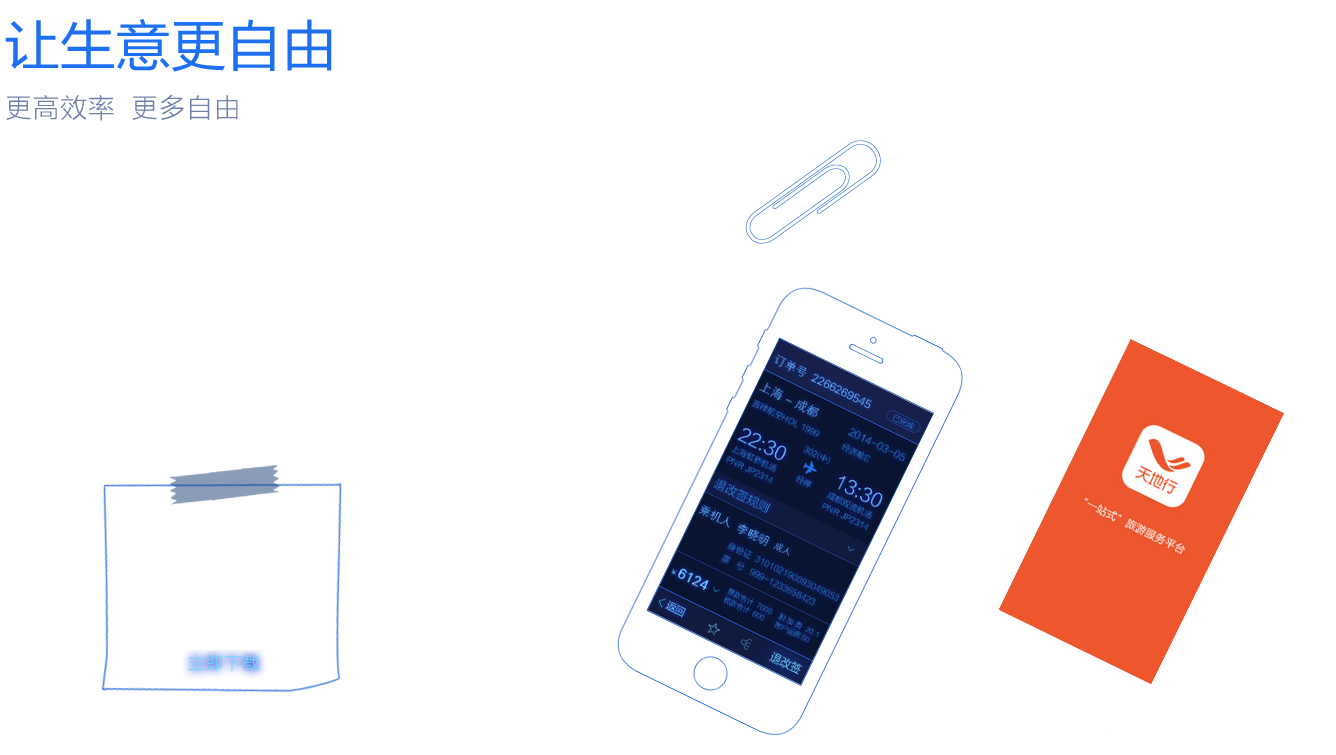
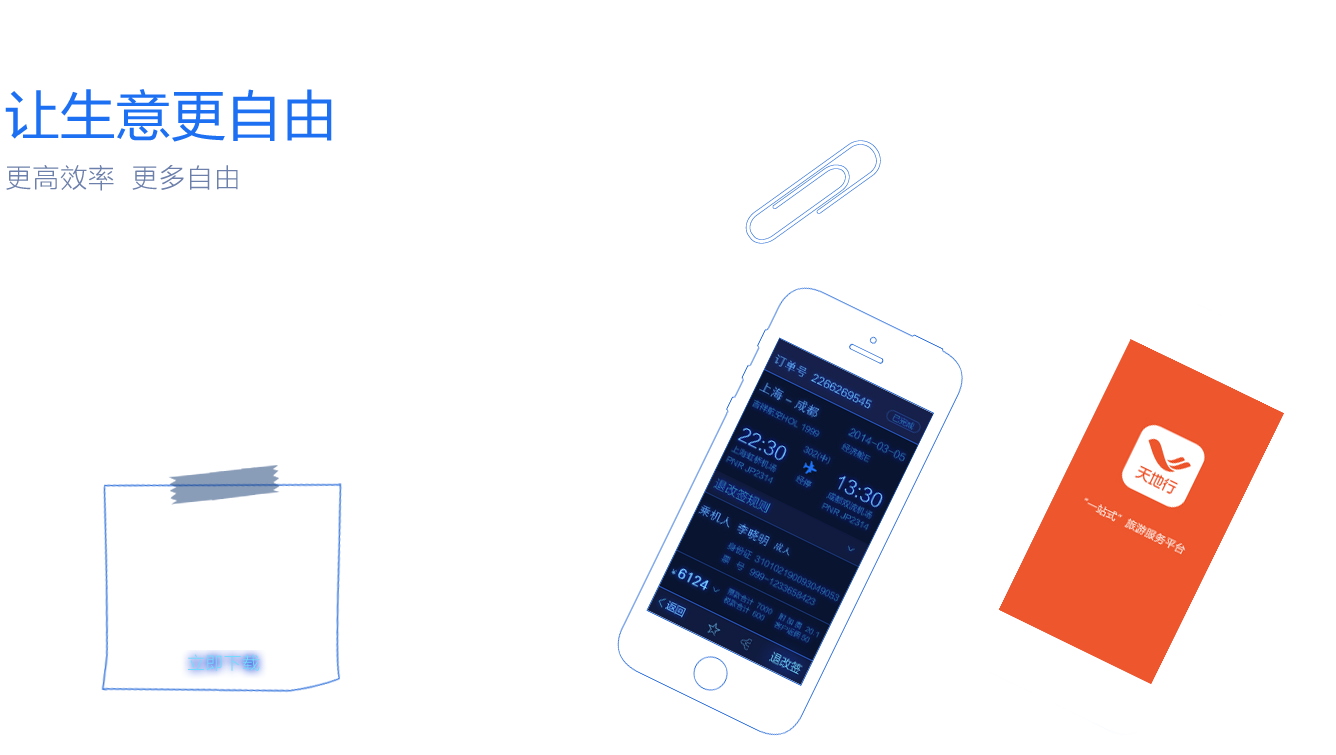
fix

Changed region(s): [[0.0, 0.1219, 0.2455, 0.1828], [0.0, 0.0305, 0.2455, 0.0914], [0.0, 0.2132, 0.1841, 0.2742]]

diff --git a/static/css/store_v2/apphome.css b/static/css/store_v2/apphome.css
@@ -54,7 +54,7 @@
 .s2 .box{width:997px;height:509px;}
 .s3 .box{width:1021px;height:554px;}
 .s4 .box{width:995px;height:331px;}
-.s5 .box{width: 980px;height: 755px;}
+.s5 .box{width: 980px;height: 685px;}
 .s0 .item1{
     width: 600px;
     height: 556px;
@@ -141,7 +141,7 @@
 .s5 .item1{
     width: 355px;
     height: 135px;
-    background-position: 0 0;
+    background-position: 0 -70px;
 }
 .s5 .item2{
     width: 156px;
